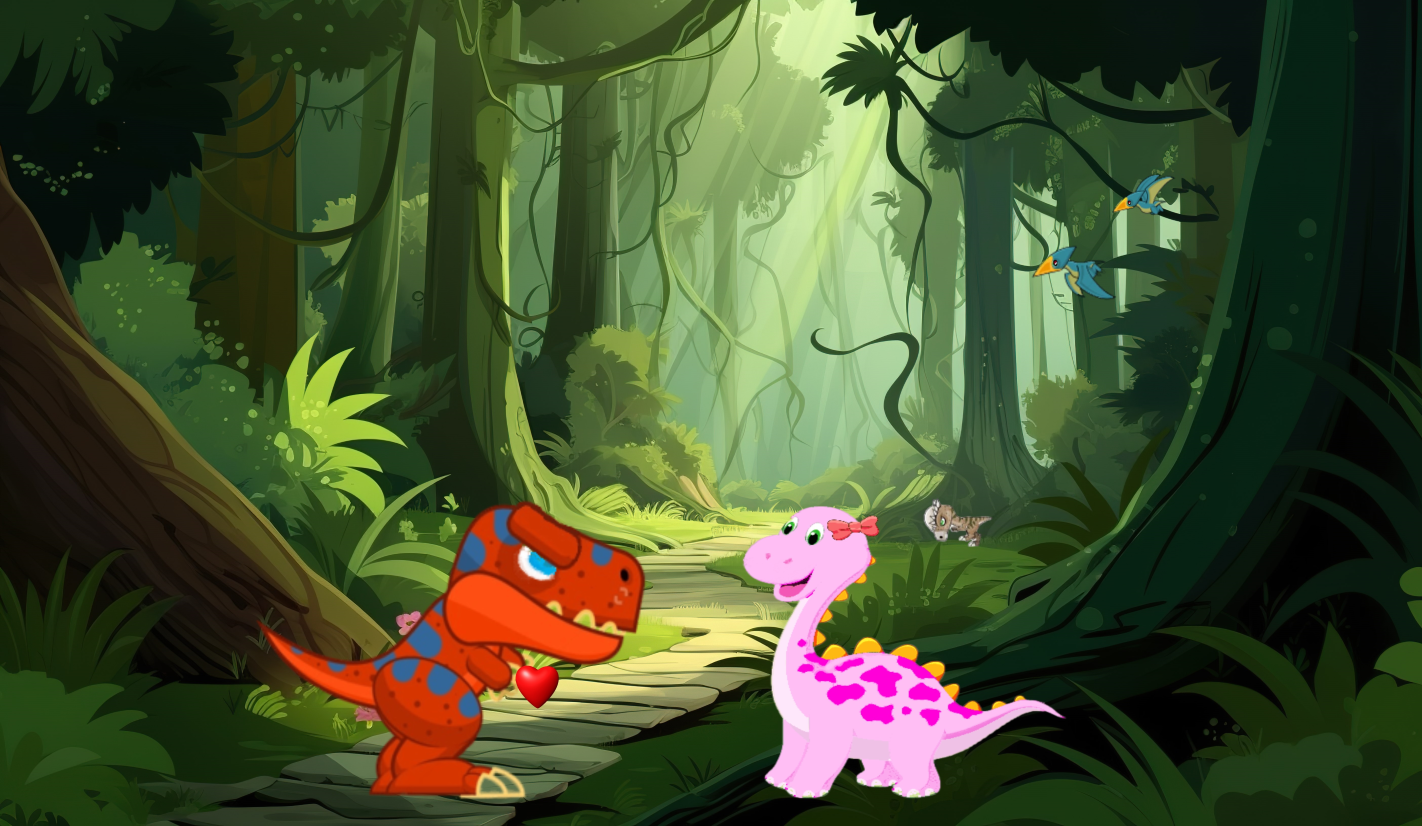
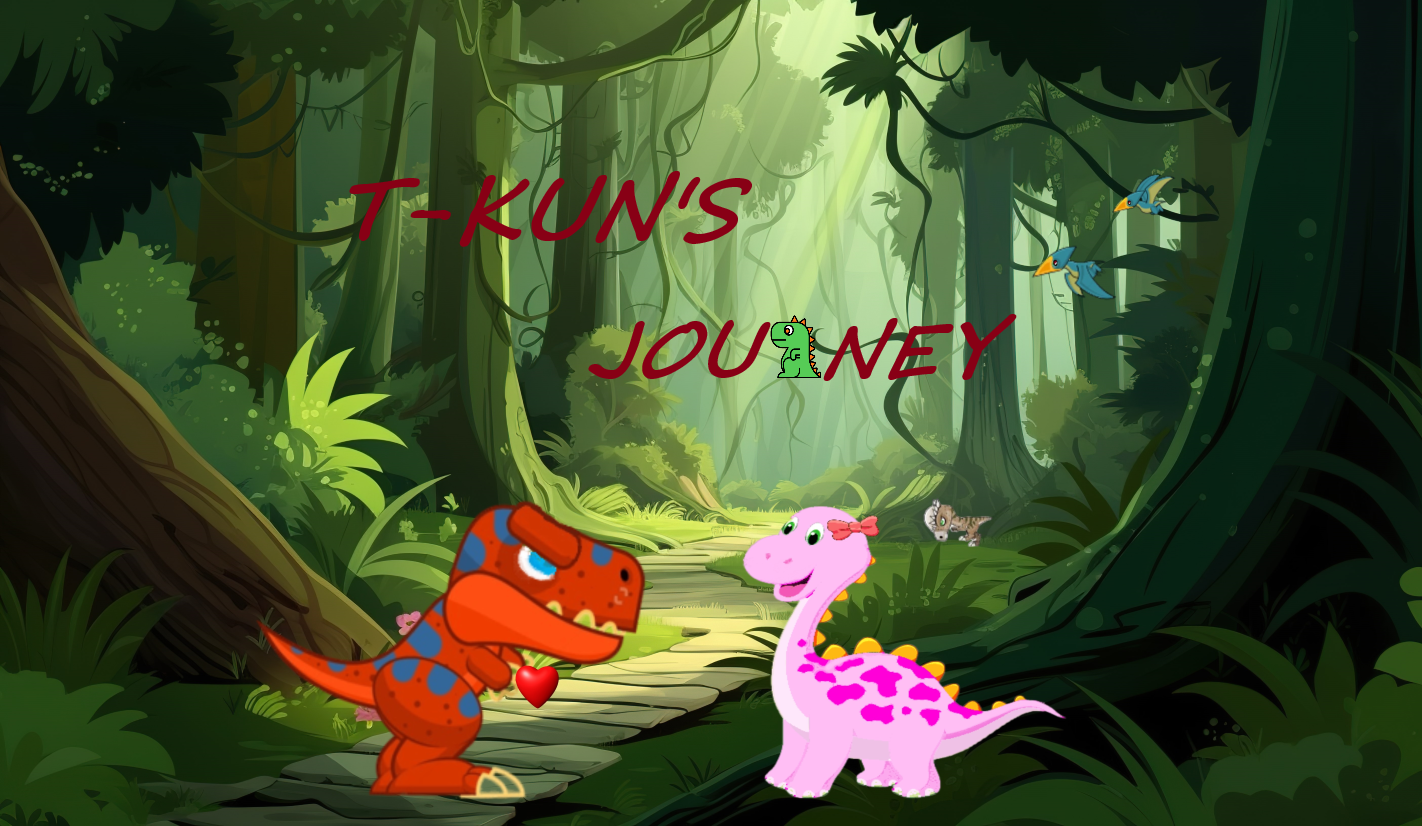
Hoan thien Menu

Changed region(s): [[0.2475, 0.2119, 0.526, 0.3027], [0.4023, 0.3935, 0.7117, 0.4843]]

diff --git a/main.cpp b/main.cpp
@@ -212,8 +212,8 @@ int main(int argc, char *argv[])
     while (start == false)
     {
         SDL_Surface *g_img_menu;
-        gFont1 = TTF_OpenFont("font/2.ttf", 100);
-        gFont2 = TTF_OpenFont("font/1.ttf",30);
+        gFont1 = TTF_OpenFont("font/2.ttf", 30);
+        gFont2 = TTF_OpenFont("font/2.ttf",30);
         g_img_menu = IMG_Load("menu/menu.png");
 
         SDL_Texture *menu = SDL_CreateTextureFromSurface(g_screen, g_img_menu);
@@ -221,8 +221,8 @@ int main(int argc, char *argv[])
 
         SDL_RenderCopy(g_screen, menu, NULL, &menuRect);
 
-        renderText("SPACE TO START!", SCREEN_WIDTH/2 - 400 , 310, gFont1);
-        renderText("ESC TO EXIT!", 30, 750, gFont2);
+        renderText("SPACE TO START!", SCREEN_WIDTH-300 , 420, gFont1);
+        renderText("ESC TO EXIT!", 30, 420, gFont2);
 
         SDL_RenderPresent(g_screen);
         SDL_FreeSurface(g_img_menu);
